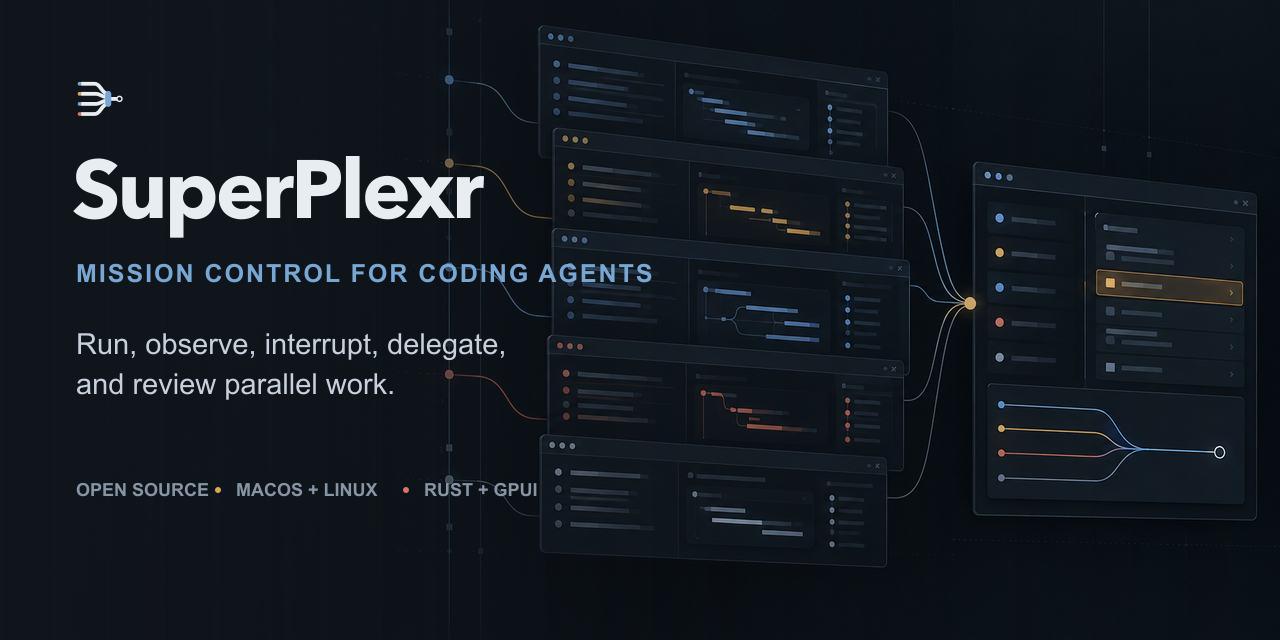
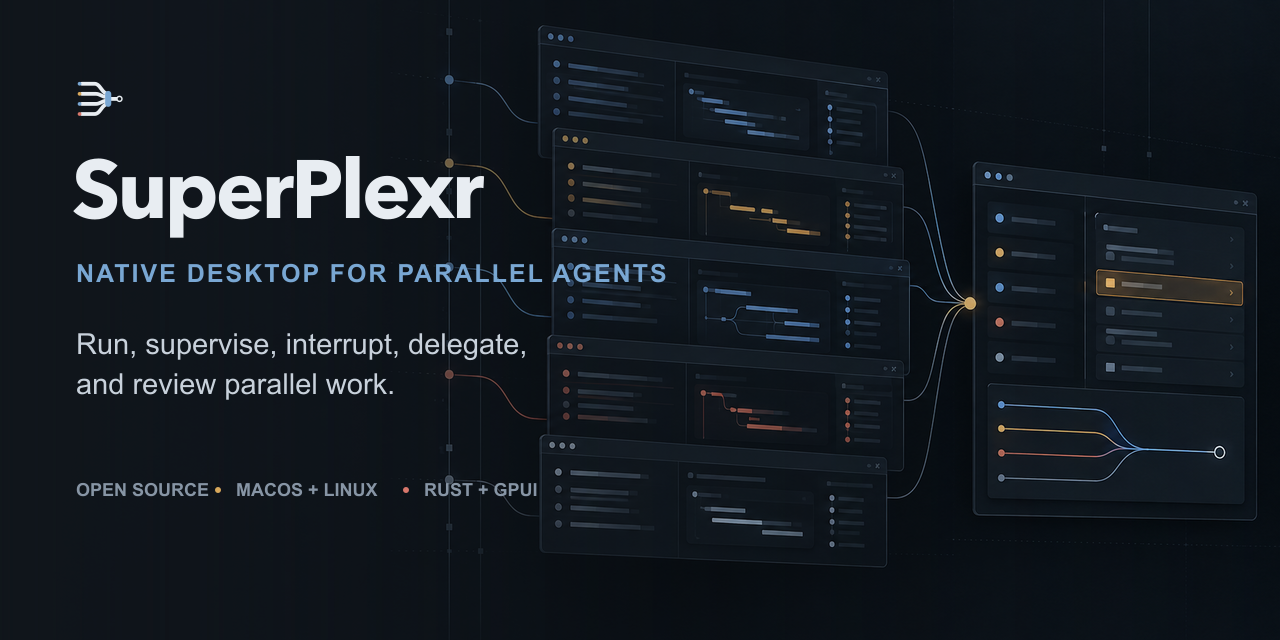
Present SuperPlexr as a native desktop app

Changed region(s): [[0.0625, 0.4062, 0.5312, 0.4375], [0.1875, 0.5312, 0.4062, 0.5625], [0.0938, 0.5312, 0.1562, 0.5625]]

diff --git a/README.md b/README.md
@@ -3,82 +3,70 @@
 </p>
 
 <p align="center">
-  Run, observe, interrupt, delegate, and review parallel agent work from one durable workspace.
+  <strong>A native desktop command center for running parallel coding agents.</strong><br>
+  Keep every terminal, agent run, question, decision, and result in one durable workspace.
 </p>
 
 <p align="center">
   <a href="https://github.com/debpalash/superplexr/actions/workflows/ci.yml"><img alt="CI" src="https://github.com/debpalash/superplexr/actions/workflows/ci.yml/badge.svg"></a>
   <a href="LICENSE"><img alt="MIT license" src="https://img.shields.io/badge/license-MIT-79A7D3.svg"></a>
-  <img alt="Rust 1.97.1" src="https://img.shields.io/badge/Rust-1.97.1-D8A85B.svg">
-  <img alt="macOS and Linux" src="https://img.shields.io/badge/platform-macOS%20%7C%20Linux-8795A5.svg">
+  <img alt="Built with Rust and GPUI" src="https://img.shields.io/badge/native-Rust%20%2B%20GPUI-D8A85B.svg">
+  <img alt="macOS and Linux" src="https://img.shields.io/badge/desktop-macOS%20%7C%20Linux-8795A5.svg">
 </p>
-
-SuperPlexr is an open-source, native **agentic terminal multiplexer** for
-developers coordinating multiple coding agents. Its durable state is a graph of
-Missions, Runs, Sessions, Signals, and Artifacts—not a collection of terminal
-windows.
-
-Close the desktop and the daemon-owned terminals keep running. Reopen it and the
-same sessions, terminal state, run history, dependencies, and human-attention
-queue are still there.
-
-> **Launch status:** SuperPlexr is pre-release software at `0.1.0`. The macOS
-> source build is usable today. Linux support and packaging are implemented and
-> remain behind the published cross-platform release gates.
-
-## See it in action
 
 <p align="center">
-  <img src="docs/assets/launch/superplexr-demo.gif" alt="SuperPlexr switching durable terminal sessions, searching retained history, and opening a parallel read-only view" width="100%">
+  <img src="docs/assets/launch/social-preview.png" alt="SuperPlexr native desktop mission control for parallel coding agents" width="100%">
 </p>
 
-This capture shows the read-only browser observer connected to a disposable real
-runtime: switching durable Sessions, searching retained terminal history, and
-opening another live view without taking control from the operator.
+## A GUI for parallel agent work
 
-## Why SuperPlexr
+**Yes, SuperPlexr has a desktop GUI.** The main product is a native macOS and
+Linux application built in Rust with GPUI. It gives developers one visual place
+to launch, supervise, interrupt, and review several coding-agent sessions.
 
-| A terminal multiplexer gives you… | SuperPlexr adds… |
+The desktop is organized around work rather than terminal windows:
+
+- **Mission tabs** keep one outcome and all of its activity together.
+- **Session sidebar** shows active, waiting, finished, and attention-needing work.
+- **Terminal waterfall** lays out several live terminal surfaces without hiding
+  them behind a tab stack.
+- **Command deck** provides keyboard-first navigation and actions with
+  <kbd>Cmd</kbd>/<kbd>Ctrl</kbd>+<kbd>K</kbd>.
+- **Run graph and verification views** connect agent attempts, dependencies,
+  candidates, checks, and human decisions.
+- **Graphite and Paper themes** provide dark and light native interfaces.
+
+The desktop can close without killing the work. A local SuperPlexr runtime owns
+the PTYs and durable state, so reopening the app reattaches to the same sessions,
+terminal history, Mission graph, and attention queue.
+
+## Why developers use it
+
+| When parallel agents create… | The SuperPlexr desktop gives you… |
 |---|---|
-| Persistent shell processes | Durable Missions and Runs with explicit outcomes |
-| Windows, tabs, and panes | A responsive waterfall of terminal Surfaces |
-| Raw terminal output | Structured progress, questions, approvals, and artifacts |
-| Manual process switching | Dependency-aware scheduling for parallel coding agents |
-| Shared input | One auditable Control lease with scoped observers/controllers |
-| Scrollback | Searchable retained history and deterministic replay |
-| Exit codes | Candidate, verification, evidence, and human settlement records |
+| Too many terminal windows | One Mission tab with a Session sidebar and waterfall |
+| Constant context switching | Stable views that never focus themselves on new output |
+| Hidden questions and blockers | Structured attention tied to the requesting Run and Session |
+| Unclear ownership of a terminal | Explicit, auditable human and agent Control leases |
+| Several competing attempts | A causal Run graph with dependencies and outcomes |
+| “Done” without proof | Candidate, verification, evidence, and acceptance records |
+| Lost work after closing a client | Daemon-owned PTYs, retained history, and deterministic reattach |
 
-SuperPlexr does not depend on one agent vendor. A configured engine driver can
-launch any command-line coding agent with structured arguments and a restricted,
-Run-scoped local channel.
+SuperPlexr is agent-vendor neutral. Its engine drivers launch command-line coding
+agents from structured process definitions, so the workspace is not tied to one
+model provider or agent CLI.
 
-## Product highlights
+## Run the desktop app
 
-- **Durable terminals** — real PTYs live in a local daemon and survive desktop
-  restarts, with canonical terminal state powered by `libghostty-vt`.
-- **Mission graph** — model parallel attempts, lineage, dependencies, priorities,
-  outcomes, and review separately from terminal process lifetime.
-- **Attention queue** — questions, blockers, approval requests, and failures
-  surface as structured Signals instead of terminal-text heuristics.
-- **Human control** — take and return exclusive terminal control explicitly;
-  observer and controller Shares stay scoped and revocable.
-- **Verified delivery** — freeze a candidate, execute bounded checks in an
-  independent verifier Run, retain evidence, then accept or return the work.
-- **Several clients, one runtime** — native GPUI desktop, CLI, TUI, MCP bridge,
-  browser observer, and remote attachment use the same authoritative state.
-- **Local-first security** — owner-only state, peer-PID-authenticated agent
-  channels, redacted diagnostics, and optional fail-closed workspace-write
-  sandboxing.
-
-## Quick start
+SuperPlexr is currently a `0.1.0` source preview. The macOS source build is usable
+today. Linux desktop support is implemented and still needs the published
+Wayland, X11, and packaging release gates.
 
 ### Requirements
 
-- macOS 13+ or Linux with Wayland/X11 development libraries
+- macOS 13+, or Linux with Wayland/X11 development libraries
 - [Rust 1.97.1](rust-toolchain.toml)
 - Zig 0.16.0 on `PATH` for the pinned Ghostty terminal dependency
-
-### Run the native desktop
 
 ```sh
 git clone https://github.com/debpalash/superplexr.git
@@ -86,60 +74,81 @@ cd superplexr
 cargo run -p superplexr-desktop
 ```
 
-The desktop starts its exact-version local runtime, restores Mission tabs, and
-reattaches durable Sessions. Use <kbd>Cmd</kbd>/<kbd>Ctrl</kbd>+<kbd>K</kbd> for
-the command deck. Graphite and Paper themes are available under **View → Theme**.
+The desktop starts its matching local runtime automatically, opens a native
+window, restores Mission tabs, and reattaches any durable Sessions. You do not
+need to start a separate server for the normal desktop workflow.
 
-### Try the control plane
+Useful desktop shortcuts:
 
-Start the runtime:
+| Action | macOS | Linux |
+|---|---|---|
+| Command deck | <kbd>Cmd</kbd>+<kbd>K</kbd> | <kbd>Ctrl</kbd>+<kbd>K</kbd> |
+| New Mission workspace | <kbd>Cmd</kbd>+<kbd>T</kbd> | <kbd>Ctrl</kbd>+<kbd>Shift</kbd>+<kbd>T</kbd> |
+| New Session | <kbd>Cmd</kbd>+<kbd>N</kbd> | <kbd>Ctrl</kbd>+<kbd>Shift</kbd>+<kbd>N</kbd> |
+| New terminal Surface | <kbd>Cmd</kbd>+<kbd>D</kbd> | <kbd>Ctrl</kbd>+<kbd>Shift</kbd>+<kbd>D</kbd> |
+| Focus mode | <kbd>Cmd</kbd>+<kbd>Shift</kbd>+<kbd>Enter</kbd> | <kbd>Ctrl</kbd>+<kbd>Shift</kbd>+<kbd>Enter</kbd> |
 
-```sh
-cargo run -p superplexr-server
-```
-
-Then create a Mission and inspect the runtime from another terminal:
-
-```sh
-cargo run -p superplexr-cli -- create "Ship the first agent-native terminal"
-cargo run -p superplexr-cli -- list
-cargo run -p superplexr-cli -- status
-```
-
-Every command accepts `--socket`. The runtime persists its event journals and
-terminal history under `.superplexr/` by default. Run `superplexr --help` for
-remote attachment, Shares, scheduling, verification, replay, and terminal
-automation.
-
-## How it works
+## Desktop and runtime architecture
 
 ```mermaid
 flowchart LR
-    H[Human operator] --> D[Native desktop]
-    A[Coding agents] --> C[Run-scoped agent channel]
-    D --> R[Durable SuperPlexr runtime]
-    C --> R
-    CLI[CLI · TUI · MCP · browser observer] --> R
-    R --> M[Mission event graph]
+    H[Developer] --> D[Native GPUI desktop]
+    D --> T[Mission tabs]
+    D --> S[Session sidebar]
+    D --> W[Terminal waterfall]
+    D --> A[Attention and review]
+    T & S & W & A --> R[Local SuperPlexr runtime]
+    G[Coding-agent CLIs] --> R
+    R --> M[Mission and Run graph]
     R --> P[Daemon-owned PTYs]
-    P --> T[Canonical Ghostty terminal state]
-    R --> E[Artifacts · evidence · retained history]
+    R --> E[History, artifacts, and evidence]
 ```
 
-The runtime owns processes and durable state. Clients are disposable projections:
-closing a Surface does not end a Session, and closing a Mission tab does not end
-the Mission. The local protocol carries sequenced binary terminal frames beside
-structured JSON control events.
+The desktop is the primary operator interface. The runtime owns processes,
+terminal state, control authority, and Mission history. This split lets the GUI
+restart or reconnect without making a view responsible for process lifetime.
+
+## What ships in this repository
+
+- Native GPUI desktop for macOS and Linux
+- Local durable runtime and daemon-owned PTYs
+- Ghostty-based terminal parsing and rendering
+- Mission, Run, Session, Signal, Intervention, and Artifact model
+- Dependency-aware agent scheduler and configurable engine drivers
+- Structured attention, Control handoff, history search, and replay
+- Candidate review and independent verification workflow
+- CLI, TUI, MCP bridge, browser observer, and remote attachment clients
+- Scoped observer/controller Shares and local-first security boundaries
+
+The CLI and other clients use the same runtime as the GUI. For example:
+
+```sh
+cargo run -p superplexr-cli -- list
+cargo run -p superplexr-cli -- status
+cargo run -p superplexr-cli -- terminal-list
+```
+
+<details>
+<summary>Browser observer preview</summary>
+
+The browser observer is a secondary, scoped client for watching or sharing a
+Session. It is not the SuperPlexr desktop app.
+
+<p align="center">
+  <img src="docs/assets/launch/superplexr-demo.gif" alt="Secondary SuperPlexr browser observer switching and searching durable sessions" width="100%">
+</p>
+
+</details>
 
 ## Project status
 
-The repository includes working implementations of the desktop, runtime, CLI,
+SuperPlexr is pre-release software for contributors and technical evaluators.
+The repository contains working implementations of the desktop, runtime, CLI,
 TUI, MCP bridge, browser observer, durable PTYs, Mission graph, scheduler,
-structured Signals, remote owner attachment, scoped Shares, retained history,
-and verification workflow.
+structured Signals, scoped Shares, retained history, and verification workflow.
 
-Release claims are evidence-based. The current macOS results and outstanding
-Wayland/X11, packaging, signing, and long-duration gates are recorded in the
+Release claims remain tied to evidence. Current macOS results and outstanding
+Linux, packaging, signing, and long-duration checks are recorded in the
 [release evidence ledger](docs/engineering/m2-runtime-release-evidence.md) and
 [product completion matrix](docs/engineering/product-completion-matrix.md).
 
@@ -147,56 +156,50 @@ Wayland/X11, packaging, signing, and long-duration gates are recorded in the
 
 | Start here | What it covers |
 |---|---|
+| [Desktop experience](docs/spec/06-desktop-experience.md) | Mission tabs, sidebar, waterfall, attention, and keyboard model |
 | [Product specification](docs/spec/README.md) | Normative product and engineering contract |
-| [Desktop interaction design](docs/design/browser-waterfall-v1.md) | Mission tabs, Session sidebar, terminal waterfall, attention |
-| [System architecture](docs/spec/03-system-architecture.md) | Module boundaries and dependency direction |
-| [Local protocol](docs/spec/05-local-protocol.md) | Negotiation, sequencing, terminal frames, control messages |
-| [Security and reliability](docs/spec/07-security-and-reliability.md) | Trust boundaries, authority, recovery, limits |
-| [Universal runtime and clients](docs/architecture/universal-runtime-and-clients.md) | Native, terminal, web, MCP, and remote-client direction |
+| [System architecture](docs/spec/03-system-architecture.md) | Desktop, runtime, terminal, and storage boundaries |
+| [Local protocol](docs/spec/05-local-protocol.md) | Negotiation, sequencing, terminal frames, and control messages |
+| [Security and reliability](docs/spec/07-security-and-reliability.md) | Trust boundaries, authority, recovery, and limits |
 | [Brand guide](docs/brand.md) | Name, logo, color, typography, and voice |
-| [North star](docs/product/north-star.md) | Product thesis and measurable differentiation gates |
 
-The canonical domain vocabulary lives in [CONTEXT.md](CONTEXT.md). It explains
-why a Mission is not a workspace, a Run is not a Session, and a Surface never
-owns the process it displays.
+The canonical vocabulary is in [CONTEXT.md](CONTEXT.md): a Mission is an
+outcome, a Run is an attempt, a Session owns process lifetime, and a Surface is
+only a view.
 
 ## Frequently asked questions
 
-### What is SuperPlexr?
+### Is SuperPlexr a desktop application?
 
-SuperPlexr is a local-first execution environment and terminal multiplexer for
-parallel coding agents. It combines persistent terminal sessions with an
-event-sourced graph of work, structured human attention, scoped control, and
-reviewable delivery evidence.
+Yes. SuperPlexr's primary interface is a native Rust and GPUI desktop app for
+macOS and Linux. The repository also includes CLI, TUI, MCP, browser-observer,
+and remote clients for the same durable runtime.
+
+### What does the SuperPlexr GUI show?
+
+The GUI shows browser-style Mission tabs, a per-Mission Session and attention
+sidebar, a responsive waterfall of live terminal Surfaces, a command deck, Run
+details, graph inspection, verification state, Faults, and provider status.
 
 ### Is SuperPlexr a replacement for tmux or Zellij?
 
-It can cover durable terminal-session workflows, but its organizing model is
-different. Traditional multiplexers arrange streams. SuperPlexr coordinates the
-actors, dependencies, decisions, and artifacts behind those streams.
+It covers durable terminal-session workflows, but it organizes them around
+parallel agent work. Missions, Runs, structured attention, explicit Control, and
+verification records remain first-class instead of being inferred from panes.
 
-### Which coding agents does it support?
+### Does SuperPlexr require a cloud service?
 
-SuperPlexr uses command-based engine drivers, so it can launch any CLI agent that
-can be described with a program, structured arguments, environment changes, and
-an optional workspace-write sandbox. The runtime protocol is vendor-neutral.
+No. The desktop, runtime, PTYs, terminal journals, Mission events, and local
+control socket run on your machine. Remote and shared access are opt-in.
 
-### Does SuperPlexr send terminal data to a cloud service?
+### Is SuperPlexr production-ready?
 
-No cloud service is required. The default runtime, terminal journals, Mission
-events, and control socket stay on the machine where SuperPlexr runs. Remote and
-shared access must be enabled explicitly.
-
-### Is it production-ready?
-
-Not yet. Version `0.1.0` is an early source release for contributors and
-technical evaluators. The repository keeps unpassed release gates visible rather
-than turning planned work into marketing claims.
+Not yet. Version `0.1.0` is an early source release. The repository keeps
+unpassed release gates visible instead of presenting planned work as shipped.
 
 ## Contributing
 
-Contributions are welcome. Read [CONTRIBUTING.md](CONTRIBUTING.md) for the build,
-test, design, and pull-request workflow. Security issues should follow
-[SECURITY.md](SECURITY.md).
+Read [CONTRIBUTING.md](CONTRIBUTING.md) for the build, test, design, and
+pull-request workflow. Report security issues through [SECURITY.md](SECURITY.md).
 
 SuperPlexr is available under the [MIT License](LICENSE).
